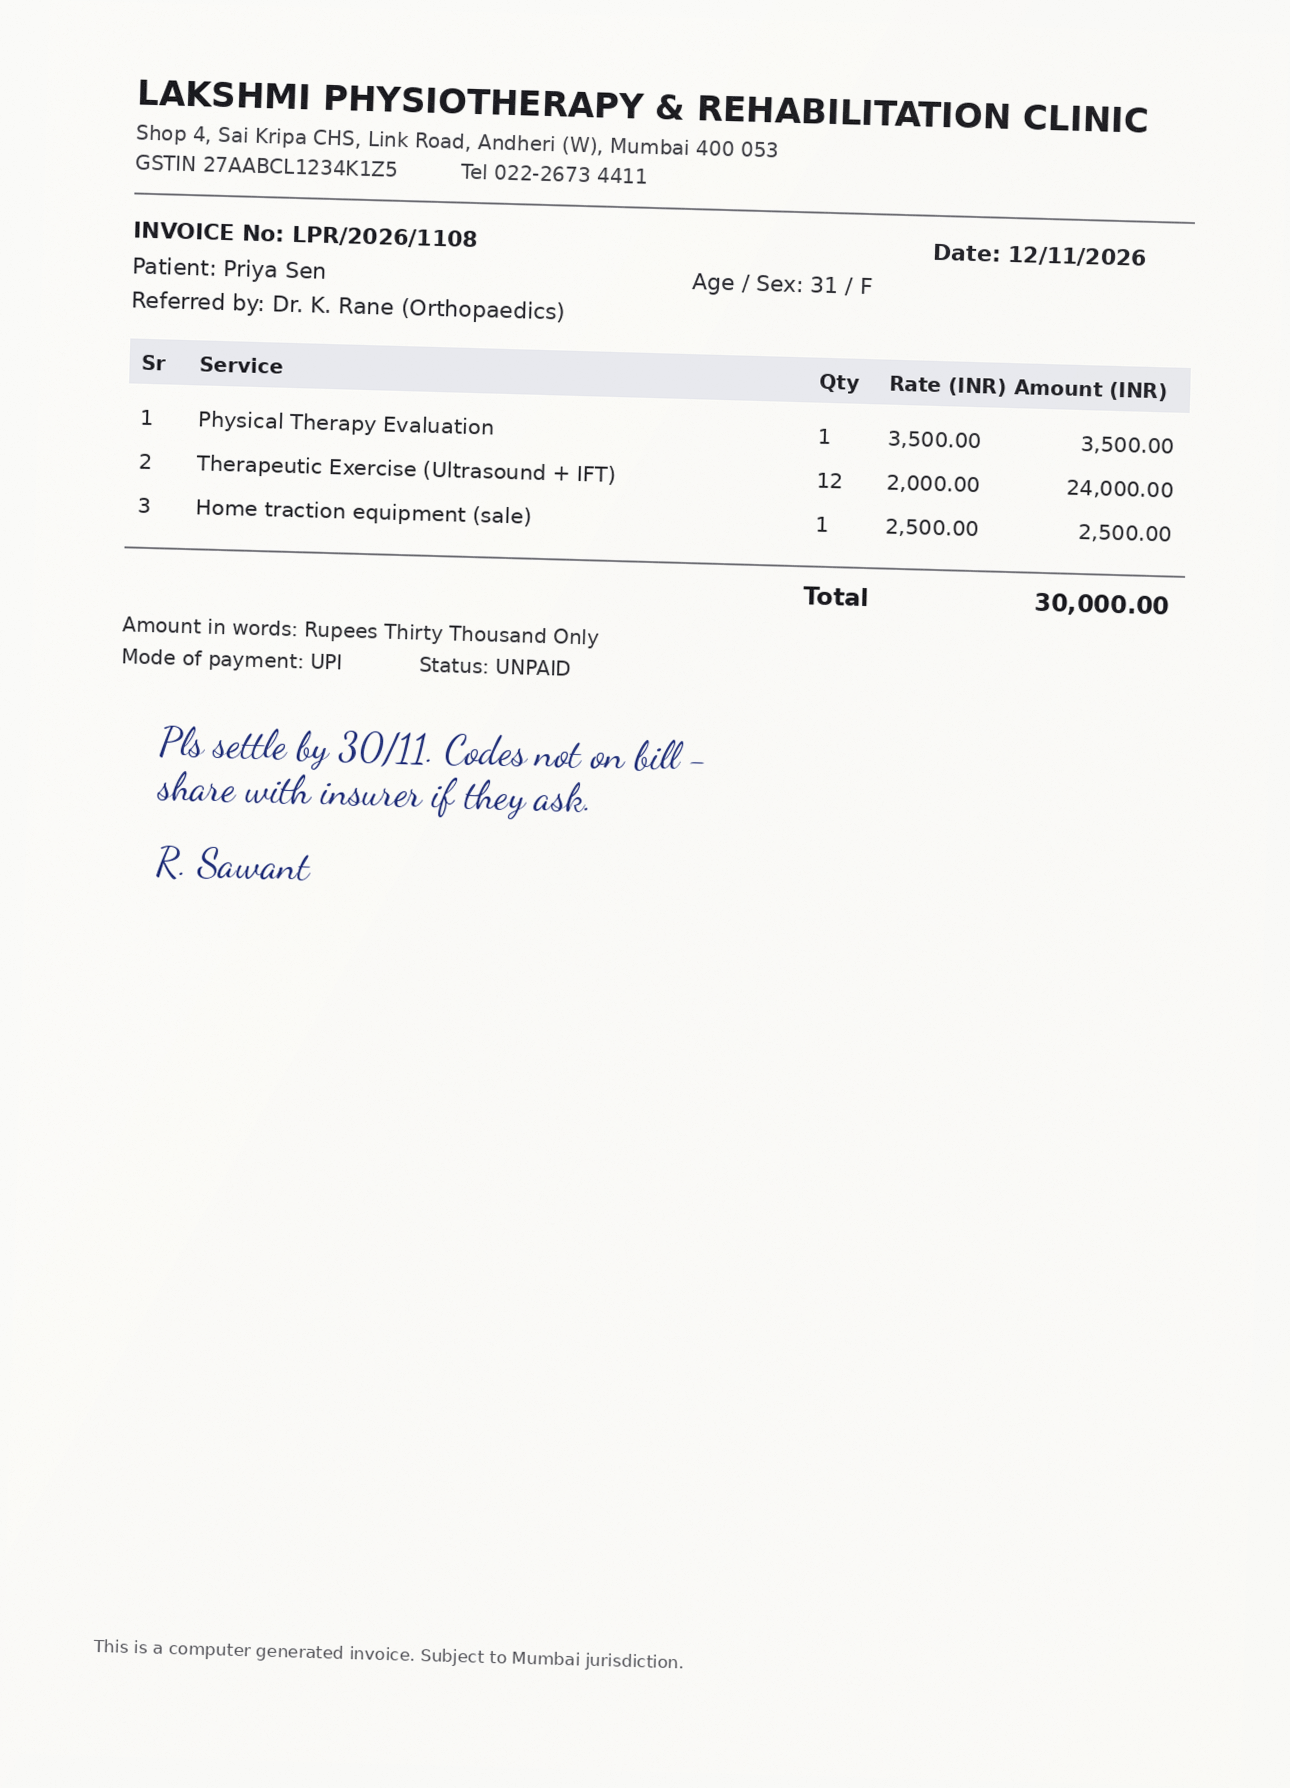
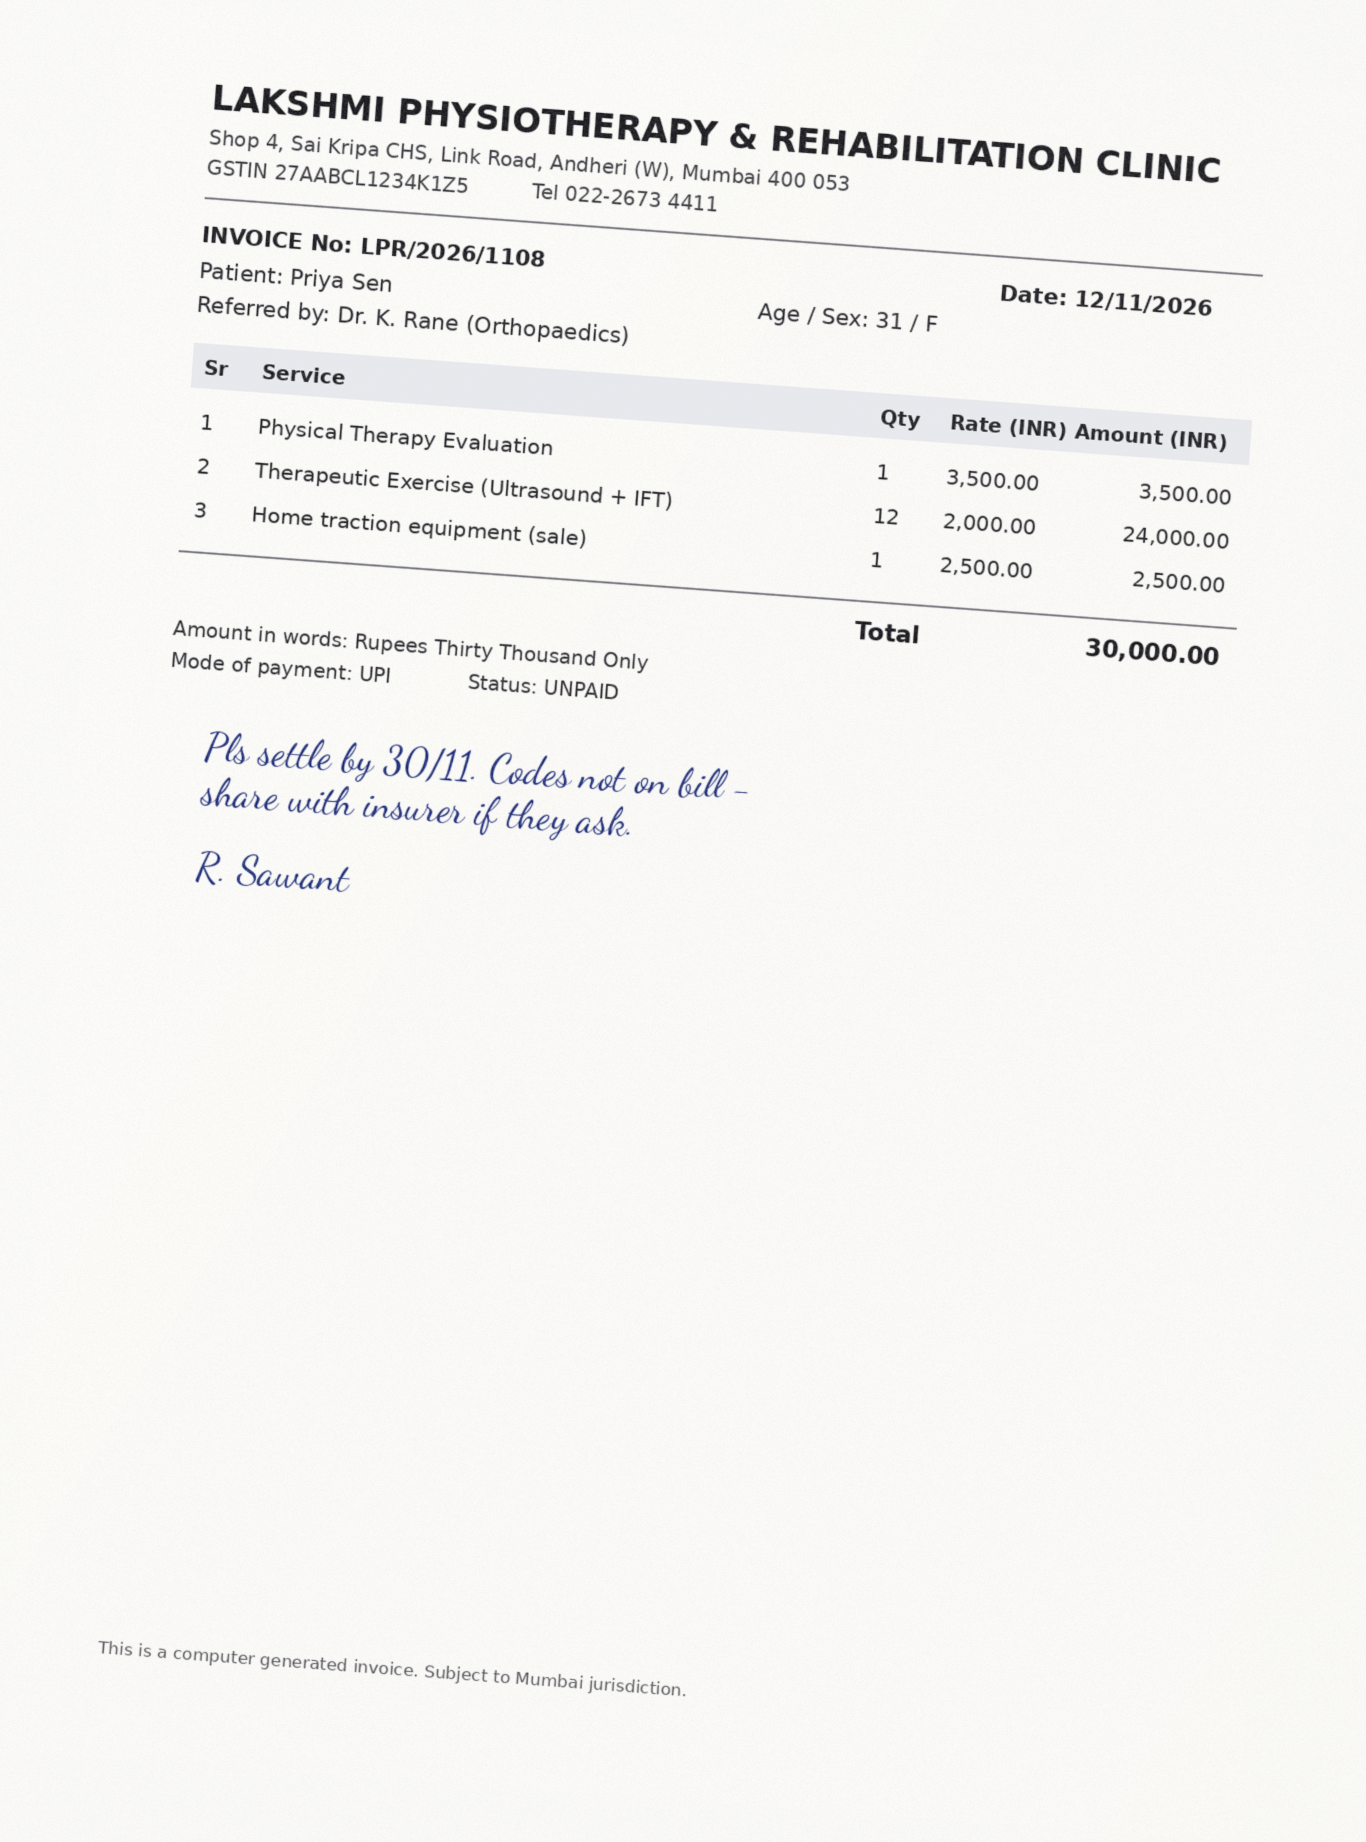
feat(intake): give each OCR attempt its own page-segmentation strategy
- name the passes for what they do (auto-layout, block, binarised)
- tilt the mock scan a little further so the page reads like a phone photo

diff --git a/outputs/cost_flow.html b/outputs/cost_flow.html
@@ -129,7 +129,7 @@
     <div class="card-head">
       <div>
         <h3>Priya Sen</h3>
-        <p class="muted">Lakshmi Physiotherapy · service date 12 Nov 2026 · claim CLM-2026-P-PT</p>
+        <p class="muted">unknown · service date 12 Nov 2026 · claim CLM-2026-P-PT</p>
       </div>
       <div class="amount">₹30,000.00</div>
     </div>
@@ -152,14 +152,14 @@
     <table>
       <thead><tr><th>Service</th><th>CPT</th><th class="num">Billed</th><th class="num">Allowed</th><th class="num">Primary paid</th><th class="num">Secondary paid</th><th class="num">You pay</th><th>Coverage</th></tr></thead>
       <tbody><tr>
-      <td>Physical Therapy Evaluation</td>
+      <td>ik Physical Therapy Evaluation</td>
       <td class="mono">97161</td>
       <td class="num">₹3,500.00</td>
       <td class="num">₹3,500.00</td>
       <td class="num">₹0.00</td>
       <td class="num">₹0.00</td>
       <td class="num strong">₹3,500.00</td>
-      <td><span class="badge ok">Covered</span> <span class="muted">90%</span></td>
+      <td><span class="badge ok">Covered</span> <span class="muted">85%</span></td>
     </tr><tr>
       <td>Therapeutic Exercise (Ultrasound + IFT)</td>
       <td class="mono">97110</td>
@@ -170,14 +170,14 @@
       <td class="num strong">₹1,830.00</td>
       <td><span class="badge ok">Covered</span> <span class="muted">90%</span></td>
     </tr><tr>
-      <td>Home traction equipment (sale)</td>
+      <td>Sj Home traction equipment (sale)</td>
       <td class="mono">—</td>
       <td class="num">₹2,500.00</td>
       <td class="num">₹0.00</td>
       <td class="num">₹0.00</td>
       <td class="num">₹0.00</td>
       <td class="num strong">₹2,500.00</td>
-      <td><span class="badge warn">Excluded</span> <span class="muted">45%</span></td>
+      <td><span class="badge warn">Excluded</span> <span class="muted">42%</span></td>
     </tr></tbody>
     </table>
     <div class="card-foot"><span class="badge soft">Insurer1 pre-auth not required</span><span class="badge soft">Insurer2 pre-auth not required</span></div>

diff --git a/duco_agent/tools/ocr.py b/duco_agent/tools/ocr.py
@@ -14,7 +14,9 @@ from pathlib import Path
 import pytesseract
 from PIL import Image, ImageFilter, ImageOps
 
-VARIANTS = ("clean", "upscaled", "binarised")
+# Attempt order matters: the first pass lets tesseract find the layout itself,
+# the retries take control of segmentation and scale the page up.
+VARIANTS = ("auto-layout", "block", "binarised")
 
 
 @dataclass
@@ -35,10 +37,13 @@ def _load(path: str | Path) -> Image.Image:
     return Image.open(path).convert("L")
 
 
+PAGE_SEGMENTATION = {"auto-layout": "--psm 3", "block": "--psm 6", "binarised": "--psm 6"}
+
+
 def _prepare(image: Image.Image, variant: str) -> Image.Image:
-    if variant == "clean":
+    if variant == "auto-layout":
         return ImageOps.autocontrast(image)
-    if variant == "upscaled":
+    if variant == "block":
         image = ImageOps.autocontrast(image)
         image = image.resize((image.width * 2, image.height * 2), Image.LANCZOS)
         return image.filter(ImageFilter.MedianFilter(3))
@@ -54,7 +59,7 @@ def run_ocr(path: str | Path, variant: str = "clean") -> OCRResult:
     """Run tesseract on one image with the requested preprocessing variant."""
     source = _load(path)
     prepared = _prepare(source, variant)
-    config = "--psm 6"
+    config = PAGE_SEGMENTATION.get(variant, "--psm 6")
     text = pytesseract.image_to_string(prepared, config=config)
     data = pytesseract.image_to_data(prepared, config=config, output_type=pytesseract.Output.DICT)
     confidences = [int(c) for c in data.get("conf", []) if str(c).lstrip("-").isdigit() and int(c) >= 0]

diff --git a/fixtures/generate_fixtures.py b/fixtures/generate_fixtures.py
@@ -41,7 +41,7 @@ def _paper(width: int, height: int, tone: int = 252) -> Image.Image:
     return image
 
 
-def _crumple(image: Image.Image, angle: float = -1.6) -> Image.Image:
+def _crumple(image: Image.Image, angle: float = -4.2) -> Image.Image:
     """Approximate a crumpled phone-scan: rotation, soft shading, grain, blur."""
     image = image.rotate(angle, expand=True, fillcolor=(250, 250, 248), resample=Image.BICUBIC)
     width, height = image.size
@@ -54,9 +54,9 @@ def _crumple(image: Image.Image, angle: float = -1.6) -> Image.Image:
             pixels[x, y] = value
     shading = Image.new("RGB", (width, height), (232, 230, 224))
     image = Image.composite(shading, image, overlay)
-    noise = Image.effect_noise((width, height), 9).convert("L").point(lambda v: 22 if v > 140 else 0)
+    noise = Image.effect_noise((width, height), 16).convert("L").point(lambda v: 26 if v > 132 else 0)
     image = Image.composite(Image.new("RGB", (width, height), (226, 224, 218)), image, noise)
-    return image.filter(ImageFilter.GaussianBlur(0.35))
+    return image.filter(ImageFilter.GaussianBlur(0.55))
 
 
 def build_invoice(path: Path) -> None:

diff --git a/docs/pull_requests/feature_intake-agent.md b/docs/pull_requests/feature_intake-agent.md
@@ -5,7 +5,7 @@
 The document layer and the first agent: everything between "four files a household would hand you" and "two claims with codes".
 
 - `fixtures/generate_fixtures.py` produces the four mock inputs: a rotated, shaded phone scan of a physiotherapy invoice with handwritten notes and **no billing codes**, an MRI report PDF, a photographed surgical estimate, and a voice-to-text transcript.
-- `duco_agent/tools/ocr.py` runs Tesseract with three named preprocessing variants and reports mean word confidence.
+- `duco_agent/tools/ocr.py` runs Tesseract with three named strategies — `auto-layout` (let tesseract find the page layout), `block` (block-of-text segmentation on a 2× page) and `binarised` (median filter plus threshold) — and reports mean word confidence for each.
 - `duco_agent/extraction.py` parses each document into fields that carry a confidence and a source (`ocr`, `derived`, `inferred`, `cross-checked`); the invoice total is reconciled against the sum of its lines, and an unreadable quantity is derived from `amount ÷ rate`.
 - `duco_agent/codes.py` is a small CPT/ICD catalogue with fuzzy matching, used to recover the codes the invoice omits (97161, 97110, M54.5).
 - `duco_agent/agents/intake.py` treats each OCR pass as a hypothesis: it scores the pass on evidence and retries with another variant when a check fails, then infers codes, maps the MRI findings to S83.511A / S83.241A, and builds the two claims.
@@ -14,7 +14,7 @@ The document layer and the first agent: everything between "four files a househo
 ## Evidence
 
 - `pytest tests/test_extraction.py` — noisy-text parsing, reconciliation failure detection, MRI findings, transcript goals, code inference.
-- The intake trace records the pass used, its checks and the decision, e.g. `"settled on the 'clean' pass (mean OCR confidence 87.6)"`.
+- The intake trace records the pass used, its checks and the decision, e.g. `"settled on the 'auto-layout' pass (mean OCR confidence 84.9)"`.
 
 ## Notes for review
 
